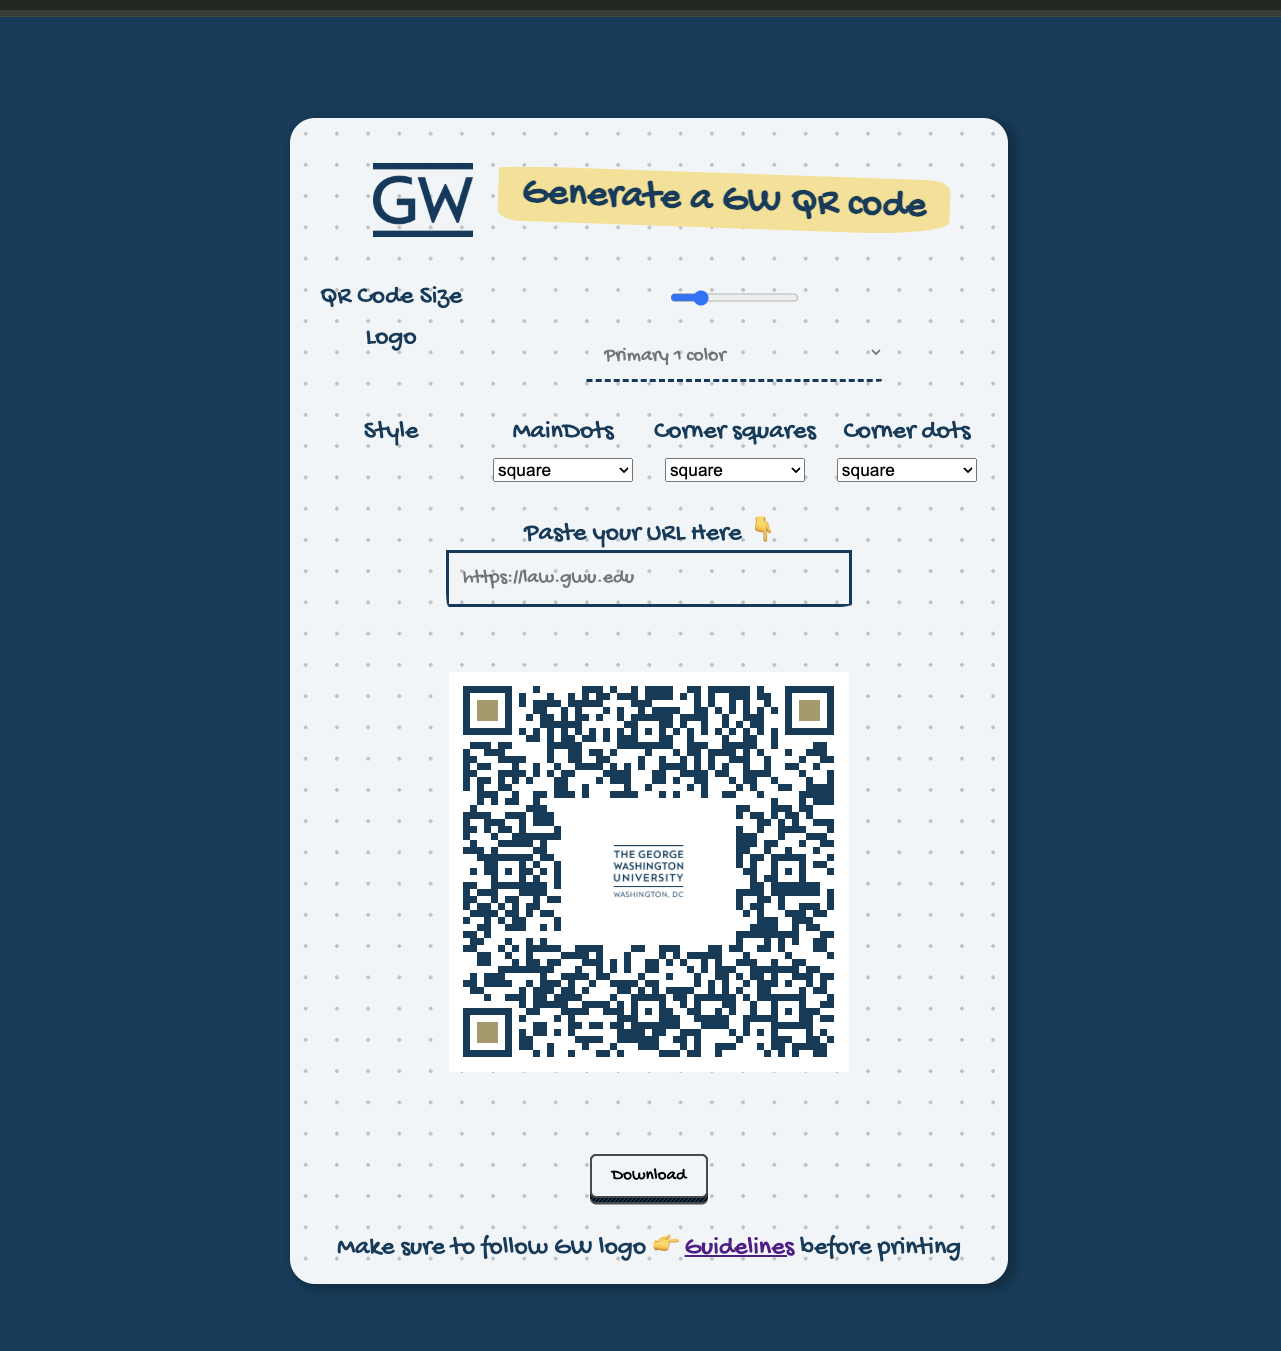
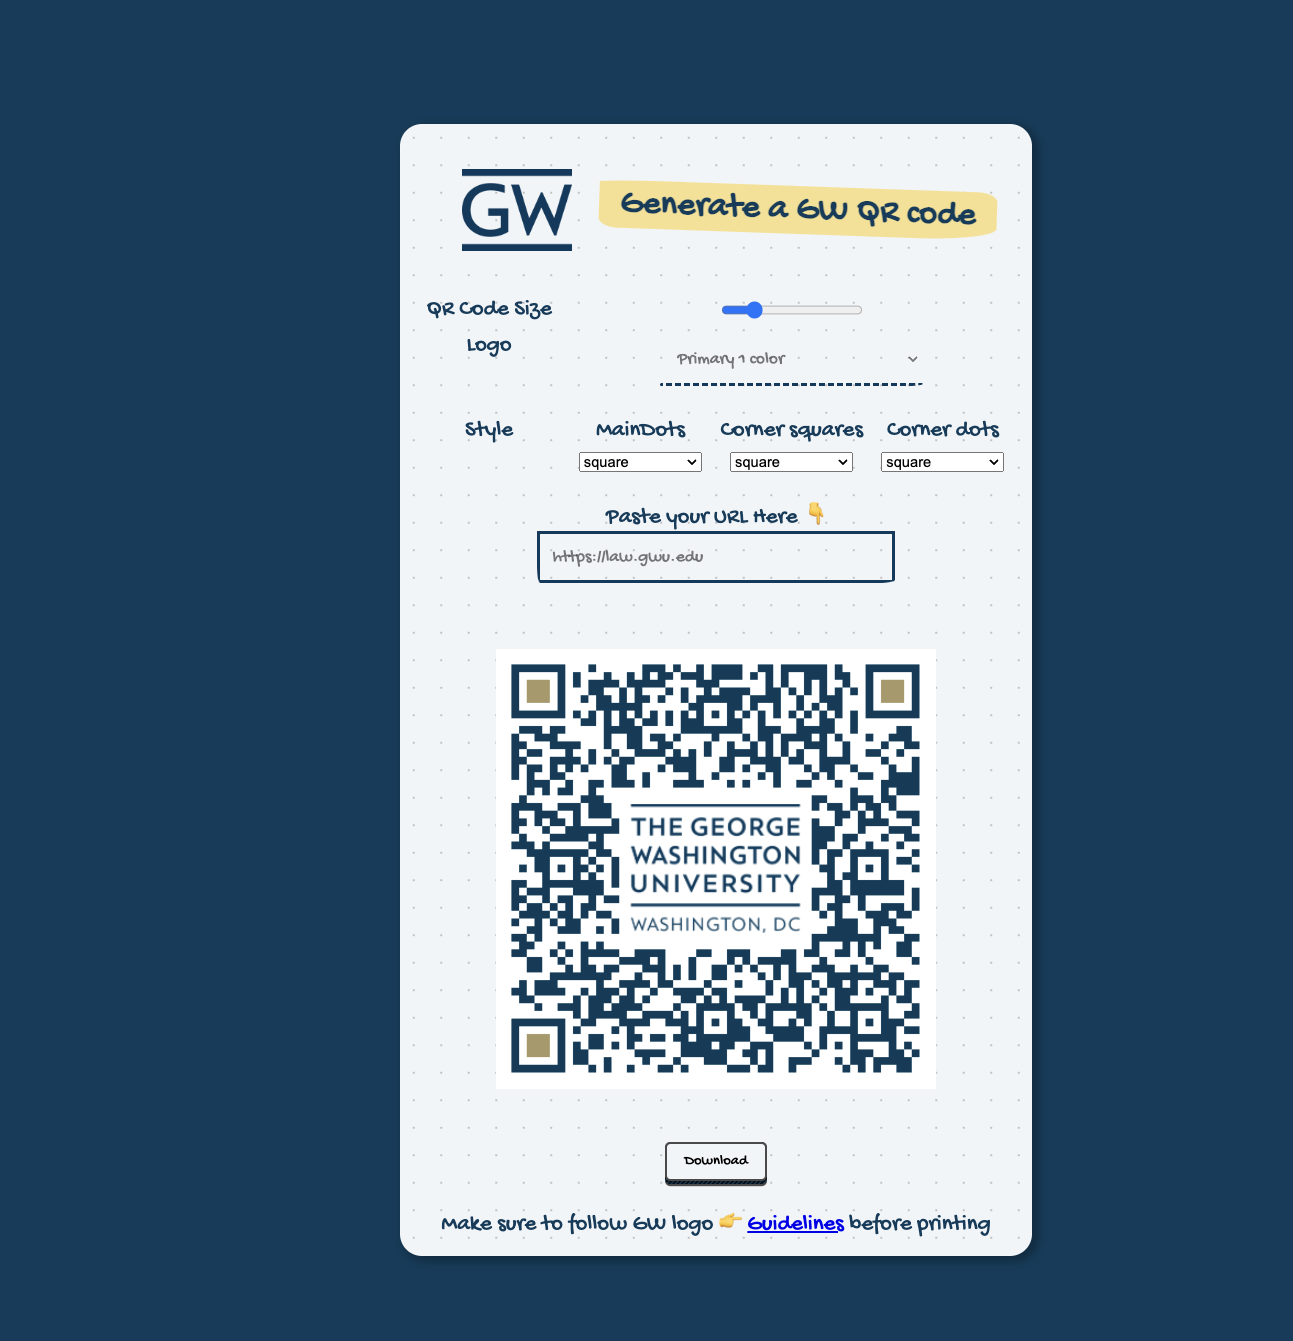
image padding bug and updated readme

Changed region(s): [[0.2186, 0.0611, 0.8119, 0.9478], [0.0, 0.0, 1.0, 0.0306]]

diff --git a/src/App.jsx b/src/App.jsx
@@ -45,7 +45,7 @@ export default function App() {
       width: size,
       height: size,
       imageOptions: {
-        margin: size / 10,
+        margin: size /50,
         imageSize: 0.75,
       },
       dotsOptions: {
@@ -194,7 +194,6 @@ export default function App() {
       >
         <div ref={qrCode} />
       </div>
-      <br />
       <button
         className="button"
         onClick={() => qr.download({ name: "GWQRCode", extension: "png" })}

diff --git a/README.md b/README.md
@@ -1,4 +1,6 @@
 # GWQR
-Repo for generating QR codes with GW branding
+Generate QR codes with GW branding.
+
+view the site live at [https://rapo7.github.io/GWQR](https://rapo7.github.io/GWQR)
 
 ![Demo Screenshot of the project](./src/assets/demo.png)
